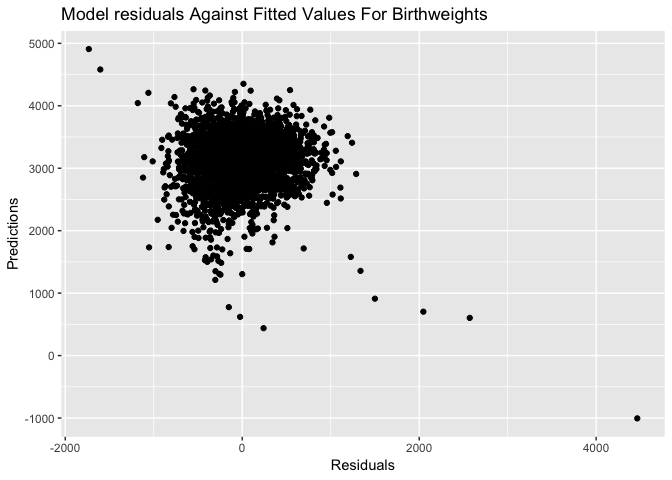
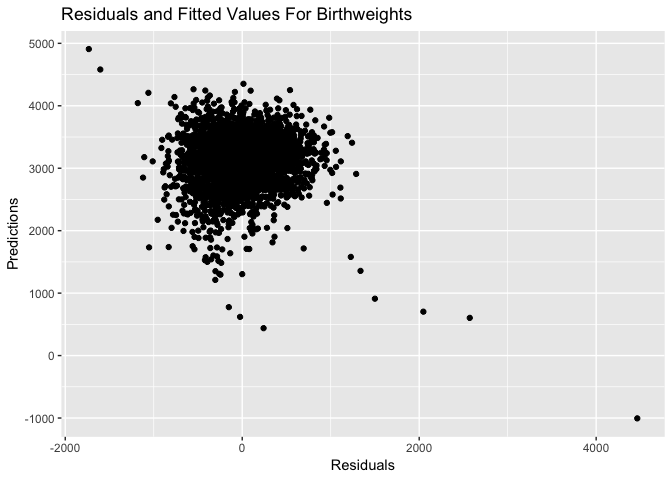
Final HW 6

Changed region(s): [[0.0938, 0.0, 0.7188, 0.0625]]

diff --git a/hw6.md b/hw6.md
@@ -70,13 +70,14 @@ baltimore %>%
   knitr::kable(digits = 3) 
 ```
 
-| term                   |        OR|      p.value|    CI\_low|                                                                                                                                                           CI\_high|
-|:-----------------------|---------:|------------:|----------:|------------------------------------------------------------------------------------------------------------------------------------------------------------------:|
-| (Intercept)            |     3.274|        0.000|      2.067|                                                                                                                                                              5.186|
-| victim\_age            |     0.993|        0.032|      0.987|                                                                                                                                                              0.999|
-| victim\_raceNon-White  |     0.441|        0.000|      0.313|                                                                                                                                                              0.620|
-| victim\_sexMale        |     0.412|        0.000|      0.315|                                                                                                                                                              0.537|
-| The odds of a homicide |  being so|  lved for \`|  Non-white|  `victims is 0.441 times the odds of a homicide being solved for`White\` victims. There is a 95% confidence that the true odds ratio lies between 0.313 and 0.620.|
+| term                  |     OR|  p.value|  CI\_low|  CI\_high|
+|:----------------------|------:|--------:|--------:|---------:|
+| (Intercept)           |  3.274|    0.000|    2.067|     5.186|
+| victim\_age           |  0.993|    0.032|    0.987|     0.999|
+| victim\_raceNon-White |  0.441|    0.000|    0.313|     0.620|
+| victim\_sexMale       |  0.412|    0.000|    0.315|     0.537|
+
+The odds of a homicide being solved for `Non-white` victims is 0.441 times the odds of a homicide being solved for `White` victims. There is a 95% confidence that the true odds ratio lies between 0.313 and 0.620.
 
 Now run glm for each of the cities in your dataset, and extract the adjusted odds ratio (and CI) for solving homicides comparing non-white victims to white victims. Do this within a “tidy” pipeline, making use of purrr::map, list columns, and unnest as necessary to create a dataframe with estimated ORs and CIs for each city.
 
@@ -110,7 +111,9 @@ allcities %>%
     y = "Odds Ratio")
 ```
 
-![](hw6_files/figure-markdown_github/unnamed-chunk-4-1.png) From the plot above, across almost all the cities in our analysis the odds of a homicide being solved for `non-white` victims is lower than for `white` victims, with the except of Birmingham, Al, Durham, NC (on the null), and Tampa, Fl. We see a particularly large difference in the odds of solved homicides between non-white and white victim in Bostom, MA, Omaha, NE, and Oakland, CA.
+![](hw6_files/figure-markdown_github/unnamed-chunk-4-1.png)
+
+From the plot above, across almost all the cities in our analysis the odds of a homicide being solved for `non-white` victims is lower than for `white` victims, with the except of Birmingham, Al, Durham, NC (on the null), and Tampa, Fl. We see a particularly large difference in the odds of solved homicides between non-white and white victim in Bostom, MA, Omaha, NE, and Oakland, CA.
 
 Problem 2
 ---------
@@ -148,18 +151,16 @@ sum(is.na(children))
 
     ## [1] 0
 
-``` r
-View(children)
-```
+After I loaded the data, I cleaned the data in preparation for regression analysis. I chose to convert the columns `babysex`, `frace`, `malform`, and `mrace` into factors because the variables for them were either indicated as binary or categorical. I also recoded these columns from numbers to what they corresponded to for easier identification and reading.
 
 Propose a regression model for birthweight. This model may be based on a hypothesized structure for the factors that underly birthweight, on a data-driven model-building process, or a combination of the two. Describe your modeling process and show a plot of model residuals against fitted values – use add\_predictions and add\_residuals in making this plot.
 
 ``` r
-# Model Fitting
+# Model Fitting: The model that I propose  has the outcome of interest as birthweight and the predictors as financial income `fincome`, baby's length at birth `blength`, and mother's age at delivery `momage`.
 mod1 = children %>%
   lm(bwt ~ fincome + momage + blength, data = .)
 
-# Tidying Output
+# Tidying Output: Using broom package to obtain quick summaries of the model and to clean up the coefficient table
 mod1  %>%
   broom::glance()
 ```
@@ -185,74 +186,33 @@ mod1 %>%
 | blength     |    137.851|        0|
 
 ``` r
-# Diagnostics
-
+# Diagnostics: Regression diagnostics will be used here to identify potential issues with the model fit. We will be creating and looking a a plot of residuals and fitted values
 children %>% 
   modelr::add_residuals(mod1) %>%
   modelr::add_predictions(mod1) %>%
   ggplot(aes(x = resid, y = pred)) + 
   geom_point() + 
   labs(
-    title = "Model residuals Against Fitted Values For Birthweights",
+    title = "Residuals and Fitted Values For Birthweights",
     x = "Residuals",
     y = "Predictions")
 ```
 
 ![](hw6_files/figure-markdown_github/unnamed-chunk-6-1.png)
 
+When we tidied the output, the estimates that we received were 1.58 for financial income, 6.74 for mother's age at delivery, and 137.851 for baby's length at birth. In the plot above `Residuals and Fitted Values For Birthweights`, we can see significant clustering centered approximately at 0 on the `Residual` axis and concentration between 2000 and 4000 on the `Prediction` axis.
+
 Compare your model to two others:
 
-One using length at birth and gestational age as predictors (main effects only) One using head circumference, length, sex, and all interactions (including the three-way interaction) between these
+-   One using length at birth and gestational age as predictors (main effects only)
+-   One using head circumference, length, sex, and all interactions (including the three-way interaction) between these
 
 Make this comparison in terms of the cross-validated prediction error; use crossv\_mc and functions in purrr as appropriate.
 
 Note that although we expect your model to be reasonable, model building itself is not a main idea of the course and we don’t necessarily expect your model to be “optimal”.
 
 ``` r
-cv = crossv_mc(children, 100)
-
-cv %>% pull(train) %>% .[[1]] %>% as_tibble
-```
-
-    ## # A tibble: 3,473 x 20
-    ##    babysex bhead blength   bwt delwt fincome frace gaweeks malform menarche
-    ##    <fct>   <int>   <int> <int> <int>   <int> <fct>   <dbl> <fct>      <int>
-    ##  1 Female     34      51  3629   177      35 White    39.9 Absent        13
-    ##  2 Male       34      48  3062   156      65 Black    25.9 Absent        14
-    ##  3 Female     36      50  3345   148      85 White    39.9 Absent        12
-    ##  4 Male       34      52  3062   157      55 White    40   Absent        14
-    ##  5 Female     34      52  3374   156       5 White    41.6 Absent        13
-    ##  6 Female     33      46  2523   126      96 Black    40.3 Absent        14
-    ##  7 Male       36      52  3515   146      85 White    40.3 Absent        11
-    ##  8 Male       35      51  3459   146      55 White    39.4 Absent        12
-    ##  9 Female     35      48  3175   158      75 White    39.7 Absent        13
-    ## 10 Male       35      51  3544   129      65 White    39.6 Absent        12
-    ## # ... with 3,463 more rows, and 10 more variables: mheight <int>,
-    ## #   momage <int>, mrace <fct>, parity <int>, pnumlbw <int>, pnumsga <int>,
-    ## #   ppbmi <dbl>, ppwt <int>, smoken <dbl>, wtgain <int>
-
-``` r
-cv %>% pull(test) %>% .[[1]] %>% as_tibble
-```
-
-    ## # A tibble: 869 x 20
-    ##    babysex bhead blength   bwt delwt fincome frace gaweeks malform menarche
-    ##    <fct>   <int>   <int> <int> <int>   <int> <fct>   <dbl> <fct>      <int>
-    ##  1 Male       33      52  3374   129      55 White    40.7 Absent        12
-    ##  2 Female     33      49  2778   140       5 White    37.4 Absent        12
-    ##  3 Male       33      50  3459   169      75 Black    40.7 Absent        12
-    ##  4 Female     35      51  3317   130      55 White    43.4 Absent        13
-    ##  5 Male       36      53  3629   147      75 White    41.3 Absent        11
-    ##  6 Female     33      49  2551   120      75 Black    38.1 Absent        11
-    ##  7 Male       34      52  3203   134      25 White    41.1 Absent        14
-    ##  8 Male       36      52  3629   152      45 White    39.6 Absent        11
-    ##  9 Female     34      52  3629   112      25 White    38   Absent        10
-    ## 10 Female     34      51  3005   149      85 White    39.3 Absent        14
-    ## # ... with 859 more rows, and 10 more variables: mheight <int>,
-    ## #   momage <int>, mrace <fct>, parity <int>, pnumlbw <int>, pnumsga <int>,
-    ## #   ppbmi <dbl>, ppwt <int>, smoken <dbl>, wtgain <int>
-
-``` r
+# The three models are listed below and I will plot the three models to get an idea of goodness of fit.
 mod1 = lm(bwt ~ fincome + momage + blength, data = children)
 mod2 = lm(bwt ~ blength + gaweeks, data = children)
 mod3 = lm(bwt ~ bhead + blength + babysex + bhead*blength + bhead*babysex + blength*babysex + bhead*blength*babysex, data = children)
@@ -269,6 +229,56 @@ children %>%
 ![](hw6_files/figure-markdown_github/unnamed-chunk-7-1.png)
 
 ``` r
+# CV using modelr
+cv = crossv_mc(children, 100)
+
+# Using the training and testing datasets, I will fit my candidate models and assess prediction accuracy, using `mutate`, `map`, and `map2`
+cv %>% pull(train) %>% .[[1]] %>% as_tibble
+```
+
+    ## # A tibble: 3,473 x 20
+    ##    babysex bhead blength   bwt delwt fincome frace gaweeks malform menarche
+    ##    <fct>   <int>   <int> <int> <int>   <int> <fct>   <dbl> <fct>      <int>
+    ##  1 Female     34      51  3629   177      35 White    39.9 Absent        13
+    ##  2 Male       34      48  3062   156      65 Black    25.9 Absent        14
+    ##  3 Male       34      52  3062   157      55 White    40   Absent        14
+    ##  4 Female     34      52  3374   156       5 White    41.6 Absent        13
+    ##  5 Male       33      52  3374   129      55 White    40.7 Absent        12
+    ##  6 Female     33      46  2523   126      96 Black    40.3 Absent        14
+    ##  7 Female     33      49  2778   140       5 White    37.4 Absent        12
+    ##  8 Male       36      52  3515   146      85 White    40.3 Absent        11
+    ##  9 Male       33      50  3459   169      75 Black    40.7 Absent        12
+    ## 10 Male       35      51  3459   146      55 White    39.4 Absent        12
+    ## # ... with 3,463 more rows, and 10 more variables: mheight <int>,
+    ## #   momage <int>, mrace <fct>, parity <int>, pnumlbw <int>, pnumsga <int>,
+    ## #   ppbmi <dbl>, ppwt <int>, smoken <dbl>, wtgain <int>
+
+``` r
+cv %>% pull(test) %>% .[[1]] %>% as_tibble
+```
+
+    ## # A tibble: 869 x 20
+    ##    babysex bhead blength   bwt delwt fincome frace gaweeks malform menarche
+    ##    <fct>   <int>   <int> <int> <int>   <int> <fct>   <dbl> <fct>      <int>
+    ##  1 Female     36      50  3345   148      85 White    39.9 Absent        12
+    ##  2 Female     35      51  3317   130      55 White    43.4 Absent        13
+    ##  3 Male       36      53  3629   147      75 White    41.3 Absent        11
+    ##  4 Female     35      57  3374   147      45 White    39.6 Absent        12
+    ##  5 Male       34      52  3203   134      25 White    41.1 Absent        14
+    ##  6 Male       34      49  3175   148      96 Black    39.7 Absent        10
+    ##  7 Female     36      56  3685   170      95 White    40.3 Absent        12
+    ##  8 Male       35      53  3175   130      45 White    40.4 Absent        13
+    ##  9 Female     34      54  3345   130      95 White    42.1 Absent        10
+    ## 10 Female     34      51  3232   155      55 White    41.6 Absent        15
+    ## # ... with 859 more rows, and 10 more variables: mheight <int>,
+    ## #   momage <int>, mrace <fct>, parity <int>, pnumlbw <int>, pnumsga <int>,
+    ## #   ppbmi <dbl>, ppwt <int>, smoken <dbl>, wtgain <int>
+
+``` r
+cv = cv %>% 
+  mutate(train = map(train, as_tibble),
+         test = map(test, as_tibble))
+
 cv = cv %>% 
   mutate(mod1 = map(train, ~lm(bwt ~ fincome + momage + blength, data = .x)),
          mod2 = map(train, ~lm(bwt ~ blength + gaweeks, data = .x)),
@@ -277,12 +287,20 @@ cv = cv %>%
          rmse_mod2 = map2_dbl(mod2, test, ~rmse(model = .x, data = .y)),
          rmse_mod3 = map2_dbl(mod3, test, ~rmse(model = .x, data = .y)))
 
+# Plotted distribution of RMSE values for each model
 cv %>% 
   select(starts_with("rmse")) %>% 
   gather(key = model, value = rmse) %>% 
   mutate(model = str_replace(model, "rmse_", ""),
          model = fct_inorder(model)) %>% 
-  ggplot(aes(x = model, y = rmse)) + geom_violin()
+  ggplot(aes(x = model, y = rmse)) + 
+  geom_violin() +
+  labs(
+  title = "Models for Birthweight",
+  x = "Model",
+  y = "RMSE")
 ```
 
 ![](hw6_files/figure-markdown_github/unnamed-chunk-7-2.png)
+
+From the violin plot above, we can see that model 1 and model 2 have similar shape and distribution, however model 3 that looks at head circumference, length, sex, and all interactions (including the three-way interaction) is different. It has lower RMSE and a wider shape.
